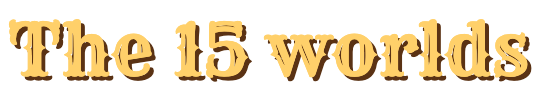
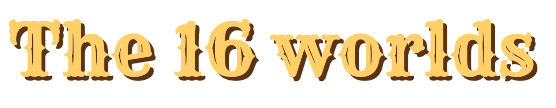
docs: README com tela título, lobby e 16 mundos

Changed region(s): [[0.0309, 0.1667, 0.9891, 0.75]]

diff --git a/README.md b/README.md
@@ -19,11 +19,12 @@ the rope tying the group together drags whoever falls behind. If one dies, every
 
 The art is 16-bit Wild West pixel art, in the spirit of 90s arcade run-and-guns: a sunset,
 a town on the horizon, cacti, crates and saloon doors. The eight cowboys are original
-characters, and each one wears their player's color on their clothes and on the little arrow
-above their head.
+characters, each with their own color on their clothes and on the little arrow above their head.
+Every player picks one in the lobby before the game starts.
 
 - **65 levels** across **16 worlds**, each world introducing a new mechanic
 - **2 to 8 players**: up to 4 on a shared keyboard, plus up to 4 gamepads
+- **Title screen and lobby**: each player joins with their own jump button and picks a cowboy
 - **Chiptune sound effects** synthesized live in the browser (no audio files), with a mute toggle
 - Everything that needs "everyone" (heavy crates, platforms, portals) **scales with the group size**
 - Progress, level unlocks and **best times per player count** saved in Postgres
@@ -65,14 +66,22 @@ above their head.
     <td><b>Up to 8 players</b> — players 5–8 start on the heads of players 1–4.</td>
   </tr>
   <tr>
-    <td colspan="2"><img src="docs/screenshots/menu.png" alt="Level select menu with worlds, cleared levels and 2P to 8P buttons"></td>
+    <td><img src="docs/screenshots/title.png" alt="Title screen: Park Party in western lettering over a pixel art sunset and a town on the horizon, with the prompt to press any key"></td>
+    <td><img src="docs/screenshots/lobby.png" alt="Lobby with four cards filled (the Sheriff, the Preacher, the Prospector and the Cowboy) and four empty slots waiting for players"></td>
   </tr>
   <tr>
-    <td colspan="2"><b>Level select</b> — pick how many are playing (2 to 8); the next level unlocks when you clear the previous one.</td>
+    <td><b>Title screen</b> — press any key to start.</td>
+    <td><b>Lobby</b> — each player joins with their own jump button and picks a cowboy with ← →; nobody can take a cowboy already picked.</td>
+  </tr>
+  <tr>
+    <td colspan="2"><img src="docs/screenshots/menu.png" alt="Level select with the chosen team at the top, the worlds and the cleared levels"></td>
+  </tr>
+  <tr>
+    <td colspan="2"><b>Level select</b> — shows the team you picked; the next level unlocks when you clear the previous one.</td>
   </tr>
 </table>
 
-<h3><picture><source media="(prefers-color-scheme: dark)" srcset="docs/readme/title-worlds-dark.png"><img src="docs/readme/title-worlds-light.png" alt="The 15 worlds" height="32"></picture></h3>
+<h3><picture><source media="(prefers-color-scheme: dark)" srcset="docs/readme/title-worlds-dark.png"><img src="docs/readme/title-worlds-light.png" alt="The 16 worlds" height="32"></picture></h3>
 
 | | World | Mechanic |
 |---|---|---|
@@ -97,18 +106,18 @@ alone, so someone always has to hold the button for the others.
 
 <h2><picture><source media="(prefers-color-scheme: dark)" srcset="docs/readme/title-controls-dark.png"><img src="docs/readme/title-controls-light.png" alt="Controls" height="40"></picture></h2>
 
-| Player | Move | Jump | Action (gravity, etc.) |
+| Controls | Move | Jump (joins in the lobby) | Action (gravity, etc.) / leave the lobby |
 |---|---|---|---|
-| 🟧 P1 | `A` `D` | `W` | `S` |
-| 🟦 P2 | `←` `→` | `↑` | `↓` |
-| 🩷 P3 | `J` `L` | `I` | `K` |
-| 🟩 P4 | `Num 4` `Num 6` | `Num 8` | `Num 5` |
-| 🟪 P5 · 🟨 P6 · 🟥 P7 · ⬜ P8 | Gamepads 1–4: stick or d-pad | `A` button | Stick or d-pad down |
+| Keyboard 1 | `A` `D` | `W` | `S` |
+| Keyboard 2 | `←` `→` | `↑` | `↓` |
+| Keyboard 3 | `J` `L` | `I` | `K` |
+| Keyboard 4 | `Num 4` `Num 6` | `Num 8` | `Num 5` |
+| Gamepads 1–4 | Stick or d-pad | `A` button | Stick or d-pad down |
 
-With up to 4 players, gamepad N also controls player N. With 5 to 8 players, the keyboard runs
-players 1–4 and gamepads 1–4 become players 5–8 (one keyboard can't take 8 people). `R` restarts
-the level, `M` toggles sound, `Esc` goes back to the menu and `Enter` moves on to the next level
-once you clear one.
+In the lobby, whoever presses a jump button joins with that set of keys or that gamepad, and keeps
+it in every level. `←` `→` pick a cowboy, down leaves, and `Enter` (or `Start` on a gamepad) goes
+to level select once at least 2 have joined. In a level, `R` restarts, `M` toggles sound, `Esc`
+goes back to level select and `Enter` moves on to the next level once you clear one.
 
 <h2><picture><source media="(prefers-color-scheme: dark)" srcset="docs/readme/title-running-locally-dark.png"><img src="docs/readme/title-running-locally-light.png" alt="Running locally" height="40"></picture></h2>
 
@@ -138,7 +147,7 @@ npm run dev              # http://localhost:3000
 
 ```bash
 npm test             # unit tests + every level solved by a bot
-npm run test:e2e     # browser: menu, keyboard and restart
+npm run test:e2e     # browser: title, lobby, keyboard and restart
 npm run typecheck && npm run lint
 ```
 
